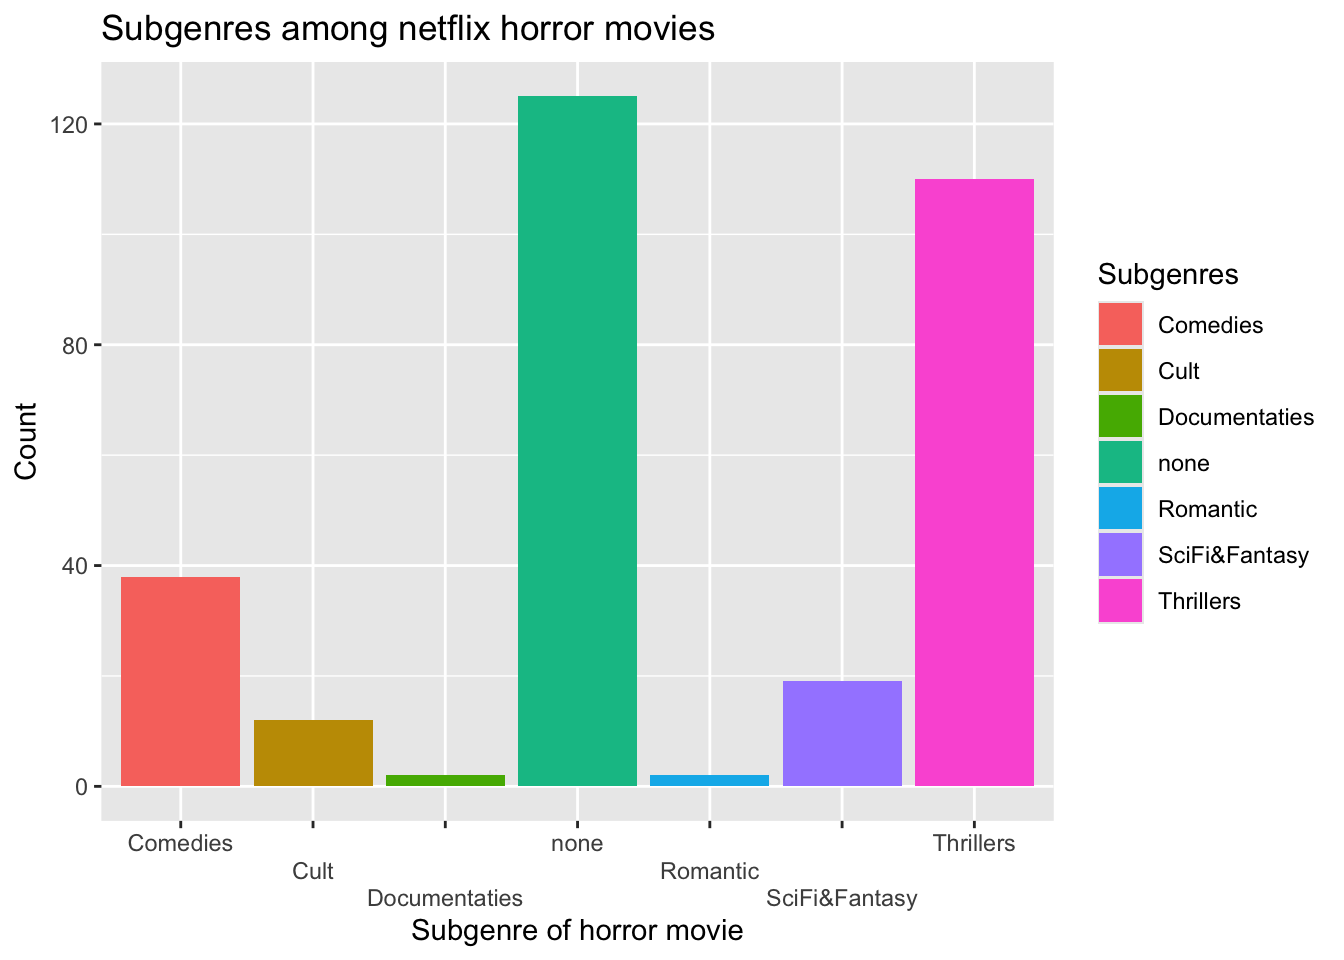
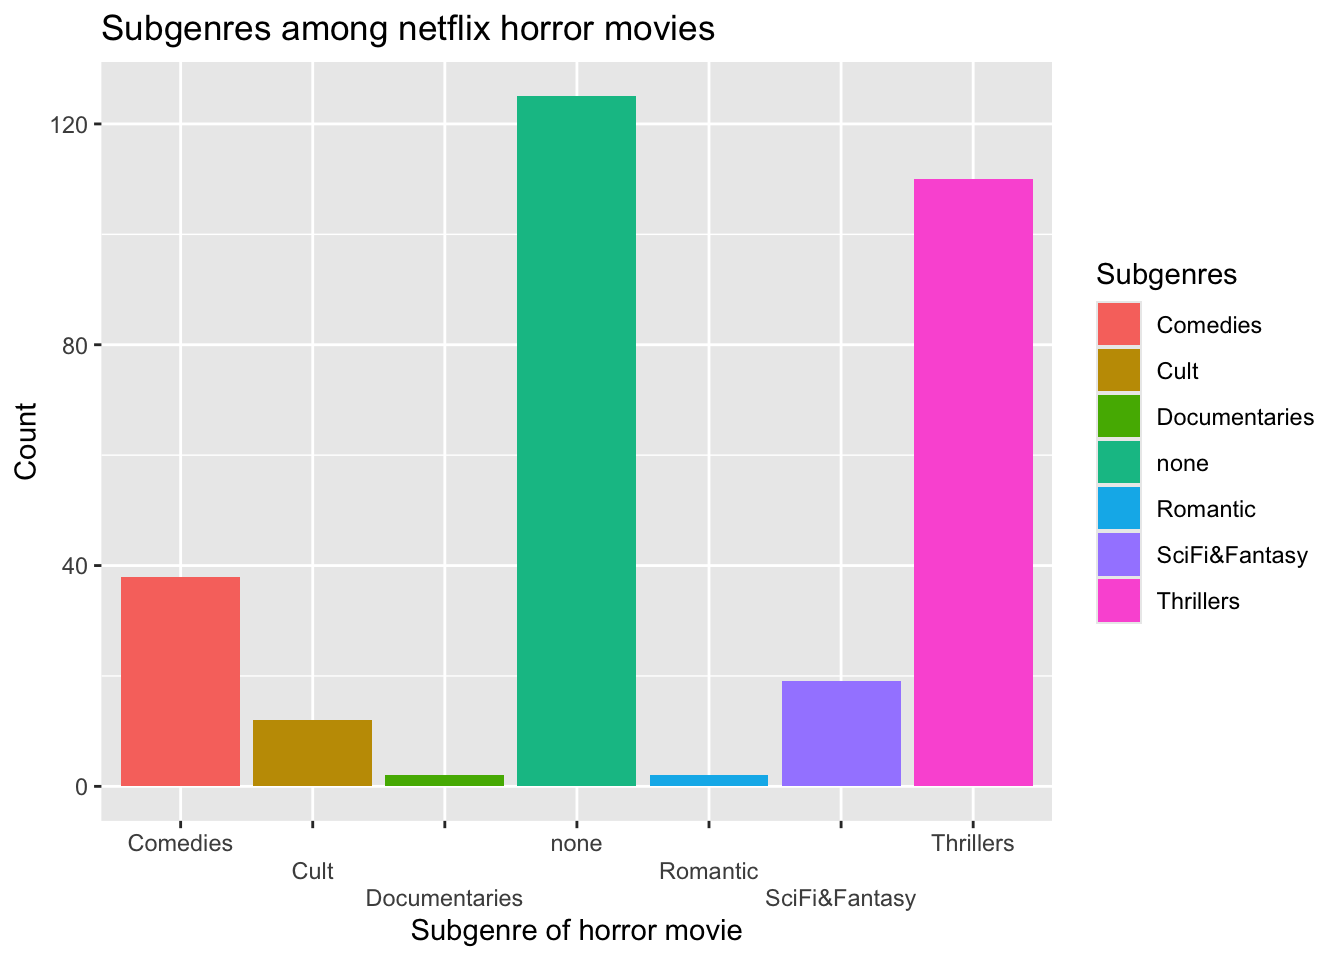
correcting typo.

diff --git a/docs/Netflix_Analysis.html b/docs/Netflix_Analysis.html
@@ -355,7 +355,7 @@ pre > code.sourceCode > span > a:first-child::before { text-decoration: underlin
 <span id="cb4-44"><a href="#cb4-44" aria-hidden="true" tabindex="-1"></a>  <span class="fu">summarize</span>(<span class="at">num =</span> <span class="fu">sum</span>(num)) <span class="sc">%&gt;%</span></span>
 <span id="cb4-45"><a href="#cb4-45" aria-hidden="true" tabindex="-1"></a>  <span class="fu">rename</span>(<span class="at">Documentaries =</span> <span class="st">'str_detect(listed_in, </span><span class="sc">\"</span><span class="st">Documentaries</span><span class="sc">\"</span><span class="st">)'</span>) <span class="sc">%&gt;%</span></span>
 <span id="cb4-46"><a href="#cb4-46" aria-hidden="true" tabindex="-1"></a>  <span class="fu">filter</span>(Documentaries <span class="sc">==</span> <span class="cn">TRUE</span>)<span class="sc">%&gt;%</span></span>
-<span id="cb4-47"><a href="#cb4-47" aria-hidden="true" tabindex="-1"></a>  <span class="fu">mutate</span>(<span class="at">genre =</span> <span class="st">"Documentaties"</span>) <span class="sc">%&gt;%</span></span>
+<span id="cb4-47"><a href="#cb4-47" aria-hidden="true" tabindex="-1"></a>  <span class="fu">mutate</span>(<span class="at">genre =</span> <span class="st">"Documentaries"</span>) <span class="sc">%&gt;%</span></span>
 <span id="cb4-48"><a href="#cb4-48" aria-hidden="true" tabindex="-1"></a>  <span class="fu">select</span>(<span class="sc">-</span>Documentaries)</span>
 <span id="cb4-49"><a href="#cb4-49" aria-hidden="true" tabindex="-1"></a></span>
 <span id="cb4-50"><a href="#cb4-50" aria-hidden="true" tabindex="-1"></a>num_romantic <span class="ot">&lt;-</span> horror_subgenre <span class="sc">%&gt;%</span></span>
@@ -384,7 +384,7 @@ pre > code.sourceCode > span > a:first-child::before { text-decoration: underlin
 3      Comedies  38
 4 SciFi&amp;Fantasy  19
 5          Cult  12
-6 Documentaties   2
+6 Documentaries   2
 7      Romantic   2</code></pre>
 </div>
 </div>
